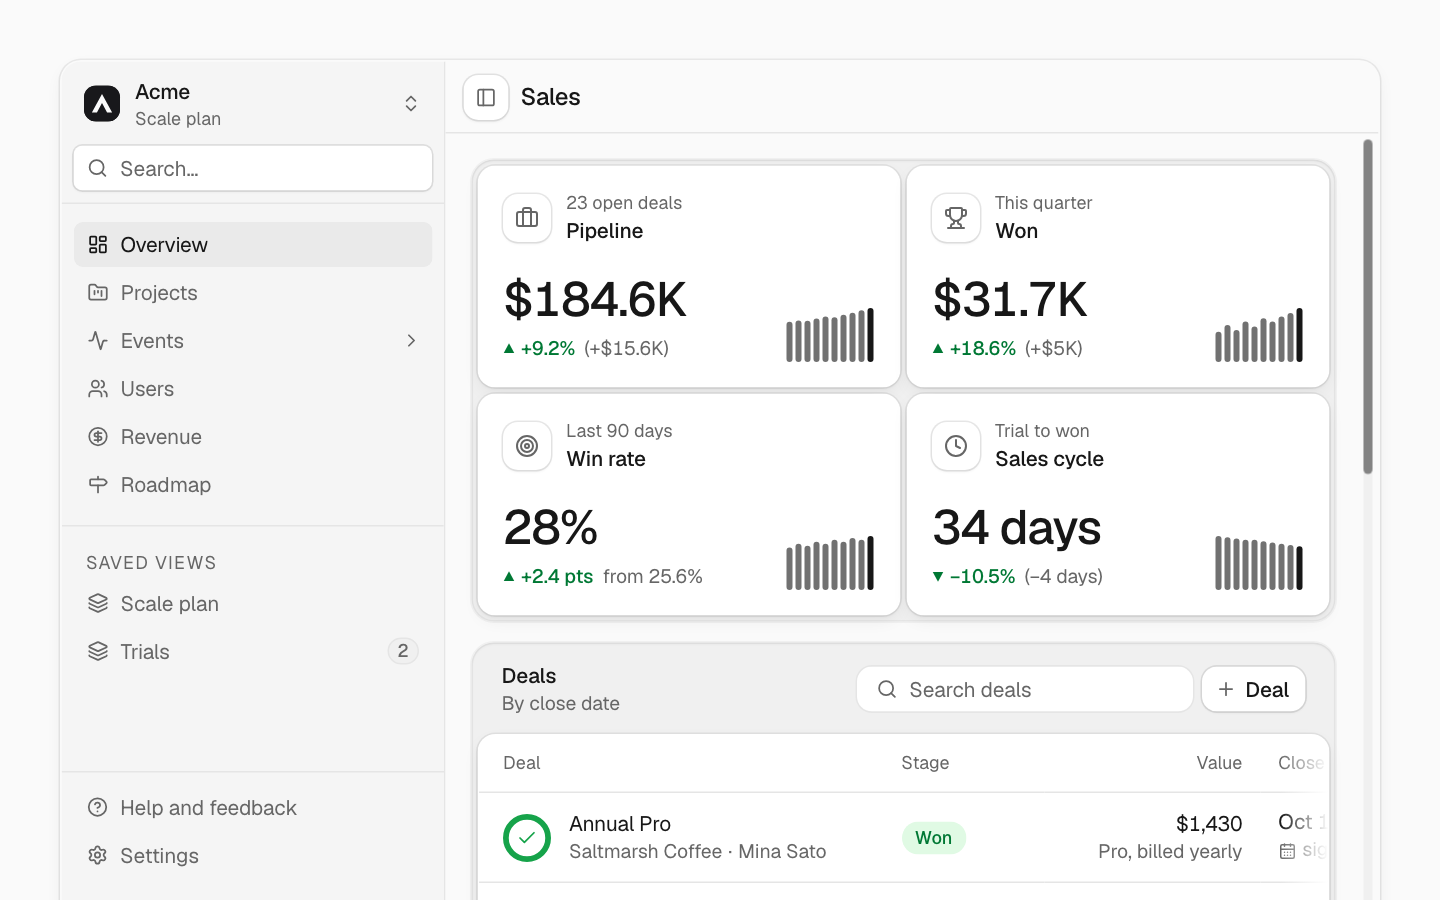
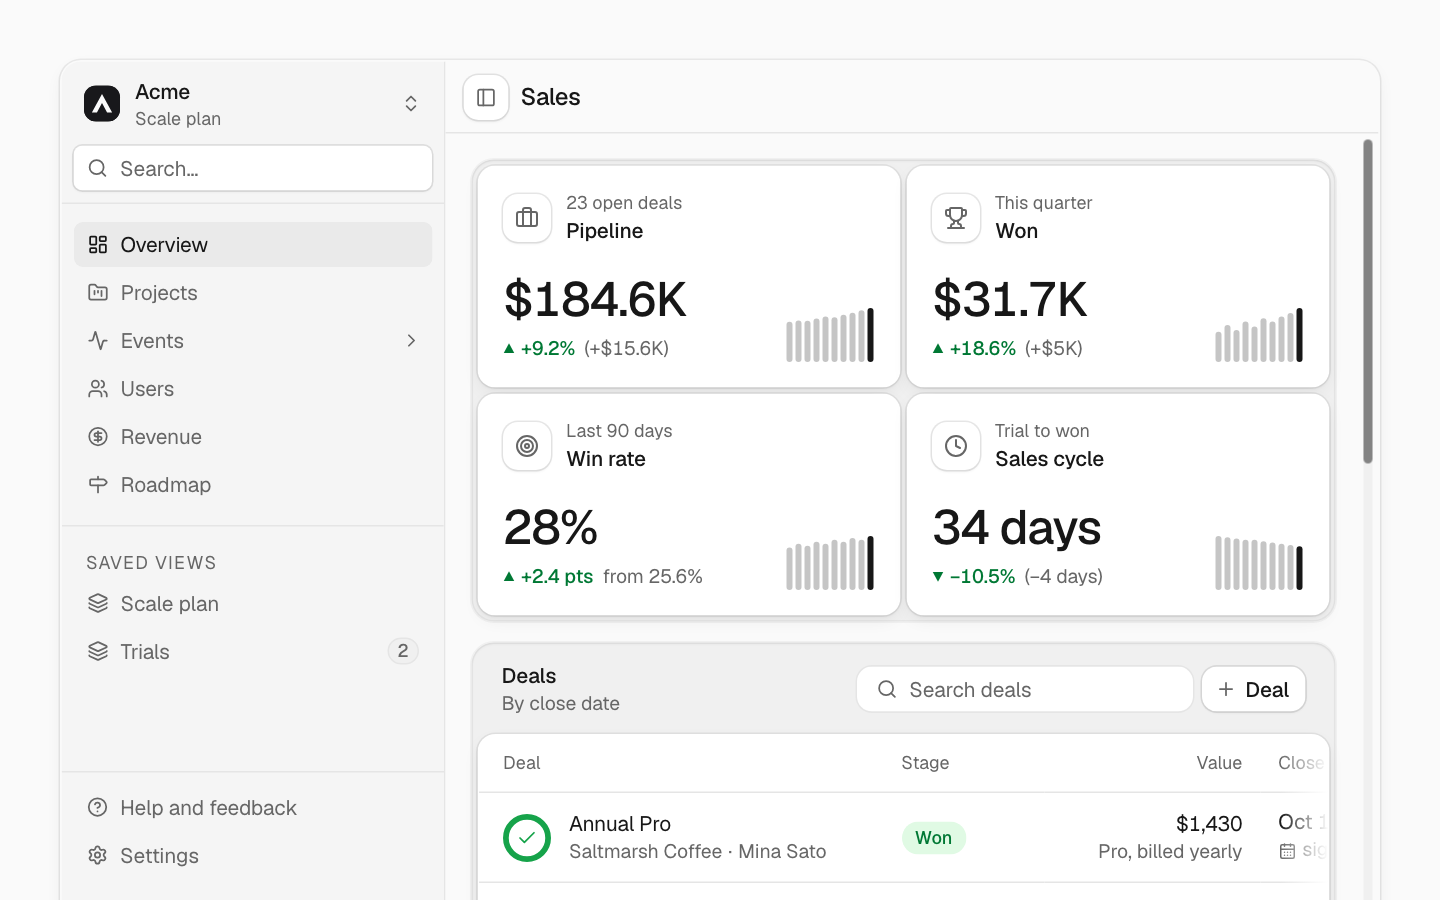
fix(dashboard): quiet the KPI bars, fill the panels and list sources as bars

diff --git a/registry/kosmos/blocks/dashboard-analytics/dashboard-analytics.tsx b/registry/kosmos/blocks/dashboard-analytics/dashboard-analytics.tsx
@@ -11,7 +11,6 @@ import { Badge } from '@/registry/kosmos/ui/badge';
 import { BarList, type BarListItem } from '@/registry/kosmos/ui/bar-list';
 import { Button } from '@/registry/kosmos/ui/button';
 import { GrowthChart, type ChartConfig } from '@/registry/kosmos/ui/chart';
-import { DonutChart, DonutChartLegend } from '@/registry/kosmos/ui/donut-chart';
 import {
   DropdownMenu,
   DropdownMenuContent,
@@ -259,10 +258,15 @@ const plans: Record<Plan, { label: string; hue: 'gray' | 'blue' | 'violet' | 'am
   trial: { label: 'Trial', hue: 'amber' },
 };
 
+const trafficConfig = {
+  current: { label: 'Current', color: 'var(--chart-1)' },
+  previous: { label: 'Previous', color: 'var(--chart-1)' },
+} satisfies ChartConfig;
+
 /** Rows a table shows before it pages; the pager shows only past it. */
 const firstPageSize = 5;
 
-/** The ring has one chart color per source, so it shows the first five. */
+/** Sources shows the first five; their shares are of all visitors. */
 const maxSources = 5;
 
 const initials = (name: string) =>
@@ -313,10 +317,6 @@ function KpiStrip({ kpis }: { kpis: Kpi[] }) {
 function TrafficPanel({ traffic, range, onRangeChange }: { traffic: Record<Range, Traffic>; range: Range; onRangeChange: (range: Range) => void }) {
   const { totals, points } = traffic[range];
   const rangeLabel = ranges[range].label;
-  const config = {
-    current: { label: `Last ${rangeLabel}`, color: 'var(--chart-1)' },
-    previous: { label: `Previous ${rangeLabel}`, color: 'var(--chart-1)' },
-  } satisfies ChartConfig;
 
   return (
     <Panel>
@@ -325,7 +325,20 @@ function TrafficPanel({ traffic, range, onRangeChange }: { traffic: Record<Range
         <PanelDescription>
           Visitors a {range === '90d' ? 'week' : 'day'} against the {rangeLabel} before
         </PanelDescription>
-        <PanelAction>
+        <PanelAction className="gap-x-4">
+          {points.length > 0 ? (
+            <ul aria-label="Legend" className="flex flex-wrap items-center gap-x-3 gap-y-1 text-caption text-muted-foreground">
+              {(['current', 'previous'] as const).map((key) => (
+                <li key={key} className="flex items-center gap-1.5">
+                  <span
+                    aria-hidden
+                    className={cn('size-2 shrink-0 rounded-sm bg-chart-1 forced-colors:bg-[CanvasText]', key === 'previous' && 'opacity-45')}
+                  />
+                  {trafficConfig[key].label}
+                </li>
+              ))}
+            </ul>
+          ) : null}
           <SegmentedControl size="sm" aria-label="Range" value={range} onValueChange={(value) => onRangeChange(value as Range)}>
             {(Object.keys(ranges) as Range[]).map((key) => (
               <SegmentedControlItem key={key} value={key}>
@@ -355,11 +368,13 @@ function TrafficPanel({ traffic, range, onRangeChange }: { traffic: Record<Range
               key={range}
               title={`Visitors, last ${rangeLabel} against the ${rangeLabel} before`}
               data={points}
-              config={config}
+              config={trafficConfig}
               xKey="label"
               xLabel={ranges[range].xLabel}
               previousKeys={['previous']}
+              legend={false}
               grid
+              className="flex-1 *:data-[slot=chart]:h-auto *:data-[slot=chart]:min-h-60 *:data-[slot=chart]:flex-1"
             />
           ) : (
             <p role="status" className="flex min-h-60 items-center justify-center text-center text-small text-muted-foreground">
@@ -367,33 +382,6 @@ function TrafficPanel({ traffic, range, onRangeChange }: { traffic: Record<Range
             </p>
           )}
         </div>
-      </PanelContent>
-    </Panel>
-  );
-}
-
-/** Where visitors came from: a ring split by source, and the sources as a list with their visitors and share. */
-function SourcesPanel({ sources }: { sources: Source[] }) {
-  const total = sources.reduce((sum, source) => sum + Math.max(0, source.visitors), 0);
-  const shown = sources.slice(0, maxSources).map((source) => ({ id: source.id, label: source.label, value: source.visitors }));
-
-  return (
-    <Panel>
-      <PanelHeader>
-        <PanelTitle>Sources</PanelTitle>
-        <PanelDescription>Where visitors came from</PanelDescription>
-      </PanelHeader>
-      <PanelContent className="flex flex-col items-center justify-center gap-5 p-4 @md/panel:flex-row">
-        {total > 0 ? (
-          <>
-            <DonutChart data={shown} total={total} label="Visitors" format={compact.format} aria-label={`${compact.format(total)} visitors`} />
-            <DonutChartLegend data={shown} total={total} format={compact.format} aria-label="Visitors by source" className="w-full" />
-          </>
-        ) : (
-          <p role="status" className="flex min-h-36 items-center text-small text-muted-foreground">
-            No visitors yet
-          </p>
-        )}
       </PanelContent>
     </Panel>
   );
@@ -671,7 +659,7 @@ type DashboardAnalyticsProps = Omit<React.ComponentProps<'section'>, 'children'>
   kpis?: Kpi[];
   /** The traffic chart and its totals for each range. */
   traffic?: Record<Range, Traffic>;
-  /** Visitors by source; the first five make the ring. */
+  /** Visitors by source, most first; the list shows the first five, each with its share of all visitors. */
   sources?: Source[];
   /** The most visited pages, most visited first. */
   topPages?: BarListItem[];
@@ -690,8 +678,8 @@ type DashboardAnalyticsProps = Omit<React.ComponentProps<'section'>, 'children'>
 };
 
 /**
- * A product analytics dashboard: the KPIs, traffic against the period before, sources, top pages, countries, the
- * signup goal and the newest signups, each section on its own Panel. Lays itself out by its own width, not the screen's.
+ * A product analytics dashboard: the KPIs, traffic against the period before, the signup goal, sources, top pages,
+ * countries and the newest signups, each section on its own Panel. Lays itself out by its own width, not the screen's.
  */
 function DashboardAnalytics({
   kpis = sampleKpis,
@@ -721,9 +709,18 @@ function DashboardAnalytics({
       <KpiStrip kpis={kpis} />
       <div className="grid min-w-0 gap-3 @5xl:grid-cols-[minmax(0,2fr)_minmax(0,1fr)]">
         <TrafficPanel traffic={traffic} range={range} onRangeChange={setRange} />
-        <SourcesPanel sources={sources} />
+        <div className="grid min-w-0 gap-3 @3xl:grid-cols-2 @5xl:grid-cols-1">
+          <GoalPanel goal={goal} />
+          <RankedPanel
+            title="Sources"
+            description="Where visitors came from"
+            items={sources.slice(0, maxSources).map((source) => ({ id: source.id, label: source.label, value: source.visitors }))}
+            showShare
+            total={visitors > 0 ? visitors : undefined}
+          />
+        </div>
       </div>
-      <div className="grid min-w-0 gap-3 @3xl:grid-cols-2 @6xl:grid-cols-3">
+      <div className="grid min-w-0 gap-3 @3xl:grid-cols-2">
         <RankedPanel title="Top pages" description="By visitors, last 30 days" items={topPages} />
         <RankedPanel
           title="Countries"
@@ -732,7 +729,6 @@ function DashboardAnalytics({
           showShare
           total={visitors > 0 ? visitors : undefined}
         />
-        <GoalPanel goal={goal} />
       </div>
       <SignupsPanel signups={signups} signupActions={signupActions} />
     </section>

diff --git a/registry/kosmos/blocks/dashboard-crm/dashboard-crm.tsx b/registry/kosmos/blocks/dashboard-crm/dashboard-crm.tsx
@@ -198,6 +198,8 @@ const sampleActivity: ActivityItem[] = [
   { id: '2', who: 'Mina Sato', avatarUrl: '/avatars/mina.jpg', what: 'won Annual Pro with Saltmarsh Coffee, $1,430', when: '1h' },
   { id: '3', who: 'Felix Brandt', avatarUrl: '/avatars/felix.jpg', what: 'logged a call with Cirrus Weather', when: '3h' },
   { id: '4', who: 'Kai Nakamura', avatarUrl: '/avatars/kai.jpg', what: 'added 2 contacts at Ironbark Logistics', when: '5h' },
+  { id: '5', who: 'Felix Brandt', avatarUrl: '/avatars/felix.jpg', what: 'sent a proposal to Driftwood Travel', when: '6h' },
+  { id: '6', who: 'Kai Nakamura', avatarUrl: '/avatars/kai.jpg', what: 'added Tidepool Notes as a lead', when: '7h' },
 ];
 
 // A fixed locale, so the server and the browser render the same text.
@@ -511,7 +513,7 @@ function StagesPanel({ stageTotals, stats }: { stageTotals: StageTotal[]; stats:
       <PanelContent className="flex flex-col">
         <BarList
           aria-labelledby={titleId}
-          className="p-3"
+          className="flex-1 content-between p-3"
           items={stageTotals.map((row) => ({
             id: row.stage,
             label: stages[row.stage].label,
@@ -589,23 +591,23 @@ function QuotaPanel({ quota }: { quota: QuotaRow[] }) {
   );
 }
 
-function ActivityPanel({ activity }: { activity: ActivityItem[] }) {
+function ActivityPanel({ activity, className }: { activity: ActivityItem[]; className?: string }) {
   const titleId = React.useId();
   return (
-    <Panel>
+    <Panel className={className}>
       <PanelHeader>
         <PanelTitle id={titleId}>Activity</PanelTitle>
         <PanelDescription>Your team, today</PanelDescription>
       </PanelHeader>
-      <PanelContent className="p-4">
+      <PanelContent className="flex flex-col p-4">
         {activity.length === 0 ? (
-          <p role="status" className="flex min-h-28 items-center justify-center text-center text-small text-muted-foreground">
+          <p role="status" className="flex min-h-28 flex-1 items-center justify-center text-center text-small text-muted-foreground">
             Nothing yet today
           </p>
         ) : (
-          <ol aria-labelledby={titleId} className="flex flex-col">
+          <ol aria-labelledby={titleId} className="flex flex-1 flex-col">
             {activity.map((item, index) => (
-              <li key={item.id} className="relative flex min-w-0 gap-3 pb-4 last:pb-0">
+              <li key={item.id} className="relative flex min-w-0 gap-3 pb-4 not-last:flex-1 last:pb-0">
                 {index < activity.length - 1 ? <span aria-hidden className="absolute start-3 top-7 bottom-1 w-px bg-border" /> : null}
                 <PersonAvatar name={item.who} avatarUrl={item.avatarUrl} size="sm" />
                 <p className="min-w-0 flex-1 pt-0.5 text-small wrap-break-word text-muted-foreground">
@@ -678,7 +680,7 @@ function DashboardCrm({
       <div className="grid min-w-0 gap-3 @3xl:grid-cols-2 @6xl:grid-cols-3">
         <StagesPanel stageTotals={stageTotals} stats={stageStats} />
         <QuotaPanel quota={quota} />
-        <ActivityPanel activity={activity} />
+        <ActivityPanel activity={activity} className="@3xl:col-span-2 @6xl:col-span-1" />
       </div>
     </section>
   );

diff --git a/registry/kosmos/ui/chart.tsx b/registry/kosmos/ui/chart.tsx
@@ -220,7 +220,7 @@ type Datum = Record<string, string | number | null | undefined>;
 type SparklineProps = Omit<React.ComponentProps<'div'>, 'children' | 'color'> & {
   data: readonly Datum[];
   dataKey?: string;
-  /** `line` draws the trend; `bar` draws one thin bar per point, the latest in `color` and the rest a lighter gray. */
+  /** `line` draws the trend; `bar` draws one thin bar per point, the latest in `color` and the rest in `color` at 25%. */
   variant?: 'line' | 'bar';
   /** Any CSS color; a chart token by default. In the bar form it colors the latest bar. */
   color?: string;
@@ -266,8 +266,9 @@ function Sparkline({ data, dataKey = 'value', variant = 'line', color = 'var(--c
 const BAR_SLOT = 6;
 
 /**
- * Bars grow from zero, so their heights compare. A bar at zero or below, or with no value, is a dot. When there are
- * more bars than room, the oldest drop out of view, so the latest stays.
+ * Bars grow from zero, so their heights compare. The latest bar is the current period in full color; the ones before it
+ * are the same color at 25%, so a row of near-equal bars stays quiet. A bar at zero or below, or with no value, is a
+ * dot. When there are more bars than room, the oldest drop out of view, so the latest stays.
  */
 function SparklineBars({ data, dataKey, color, className, ...props }: Omit<SparklineProps, 'variant' | 'fill'> & { dataKey: string }) {
   const bars = data.map((datum) => {
@@ -298,7 +299,8 @@ function SparklineBars({ data, dataKey, color, className, ...props }: Omit<Spark
               return (
                 <Recharts.Rectangle
                   {...bar}
-                  fill={latest ? seriesColor(dataKey) : 'var(--chart-4)'}
+                  fill={seriesColor(dataKey)}
+                  fillOpacity={latest ? 1 : 0.25}
                   className={latest ? 'forced-colors:fill-[CanvasText]' : 'forced-colors:fill-[GrayText]'}
                 />
               );
